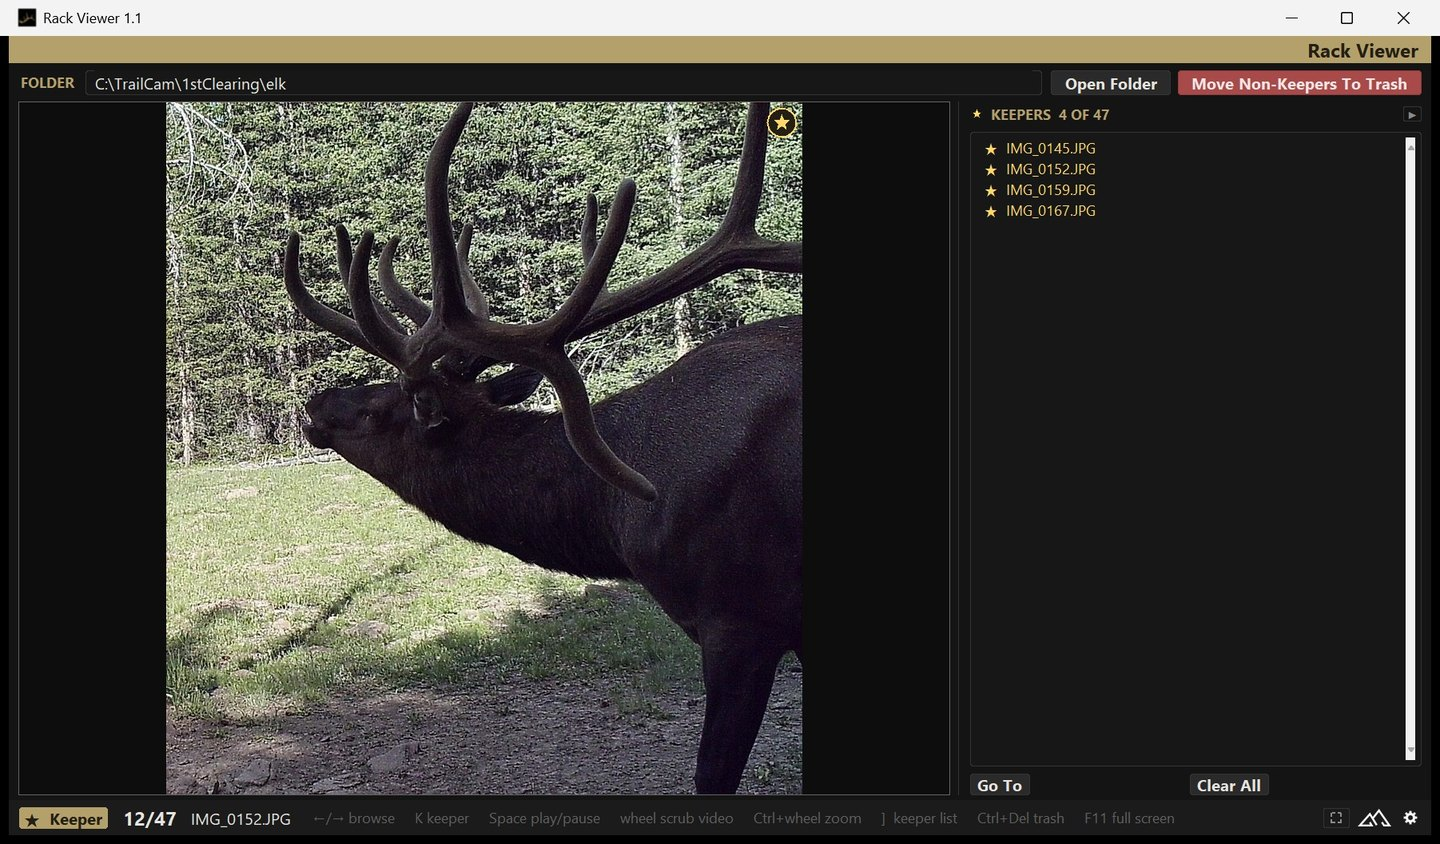
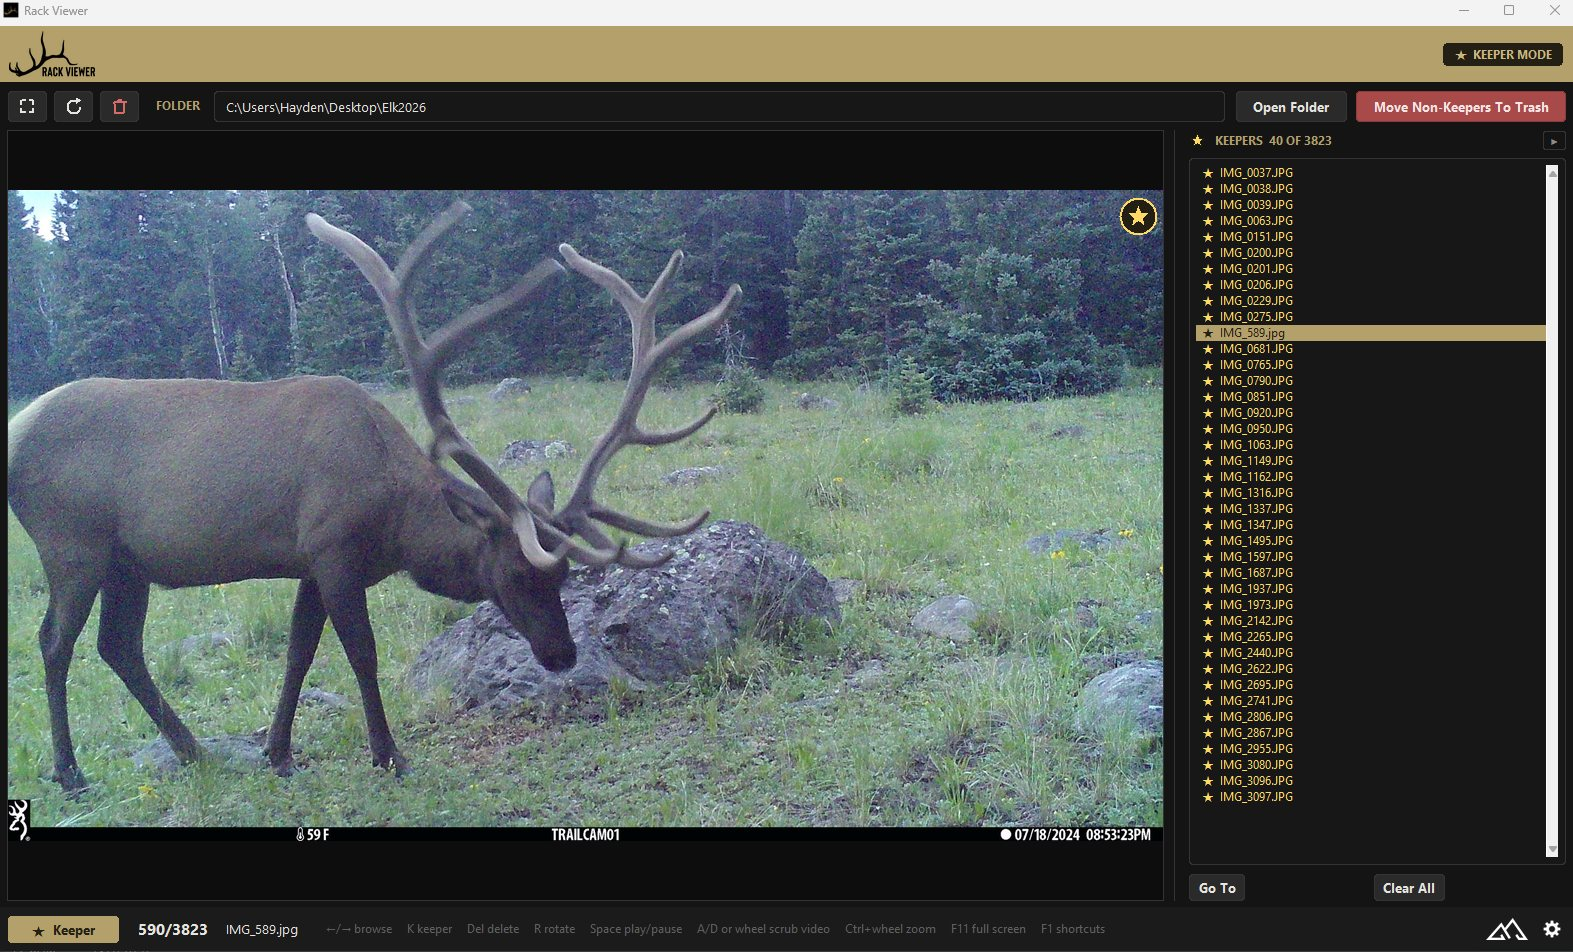
New Rack Viewer screenshots, taken on the current build
Replaces the hero and screenshot images, which were captured on 4 August and
predated the header logo and mode badge, the picture controls on the folder row,
and the rebuilt footer - so the page had been showing an app that no longer looked
like the download.

Converted from the source PNGs to progressive JPEG at the width the page actually
renders: 7.5 MB of PNG became 1.1 MB of JPEG with no visible loss, and the two
images the page uses are 251 KB and 321 KB against 202 KB and 260 KB before.

Alt text rewritten to describe these captures rather than the old ones - it still
said "the footer showing 12 of 47", which was from a different screenshot entirely.

Also adds converted video and full-screen captures. Nothing references them yet:
the page has no slot for either, and adding one is a layout decision rather than a
copy change. The full-screen one shows the new "2696/3823 - KEEPER MODE" overlay.

The source PNGs are deliberately not committed. They are still in img/ untracked;
they should be moved out or ignored rather than added, since 7.5 MB would stay in
history for good.

diff --git a/rack-viewer.html b/rack-viewer.html
@@ -55,7 +55,7 @@
       <p class="rd-note">Browsing, keepers and video are <strong>free forever</strong> — the $20 license covers clearing out the non-keepers, after 10 free runs. Windows 10/11 · no cloud, no GPU needed. Your photos never leave your computer.</p>
     </div>
     <div>
-      <img src="img/rackviewer-hero.jpg" alt="Rack Viewer showing a bull elk trail-camera photo, with the keeper star on the image and four keepers listed alongside" class="rd-elk">
+      <img src="img/rackviewer-hero.jpg" alt="Rack Viewer showing a bull elk trail-camera photo marked with the gold keeper star, KEEPER MODE in the header, and 40 keepers listed from a folder of 3,823" class="rd-elk">
     </div>
   </div>
 </section>
@@ -95,7 +95,7 @@
     <div class="divider"></div>
     <p class="section-sub">The photo as big as your monitor allows, your keepers listed beside it, and every count and shortcut along the bottom.</p>
     <img src="img/rackviewer-screenshot.jpg"
-         alt="The full Rack Viewer window: a bull elk photo marked as a keeper, the keeper list showing four flagged files, and the footer showing 12 of 47 with the keyboard shortcuts"
+         alt="The full Rack Viewer window: a grazing bull elk marked as a keeper, the keeper list showing 40 flagged files, and the footer showing photo 590 of 3,823 with the keyboard shortcuts"
          class="rd-elk" style="max-width: 1000px; margin: 3rem auto 0;">
   </div>
 </section>

diff --git a/apps.html b/apps.html
@@ -226,7 +226,7 @@
         </div>
       </div>
       <div class="app-row-media">
-        <img src="img/rackviewer-screenshot.jpg" alt="The Rack Viewer window: a bull elk photo marked as a keeper, with the keeper list alongside it" class="rd-elk">
+        <img src="img/rackviewer-screenshot.jpg" alt="The Rack Viewer window: a grazing bull elk marked as a keeper, with 40 keepers listed from a folder of 3,823 alongside it" class="rd-elk">
       </div>
     </div>
 
